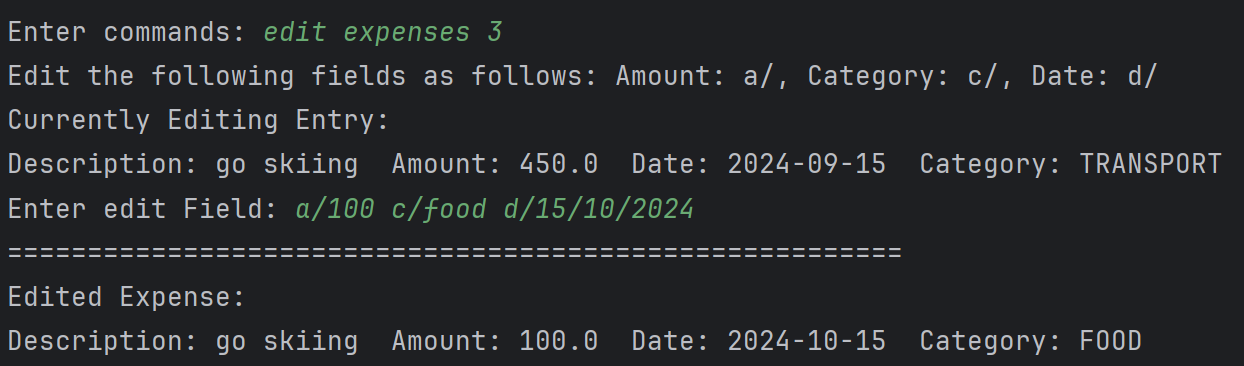
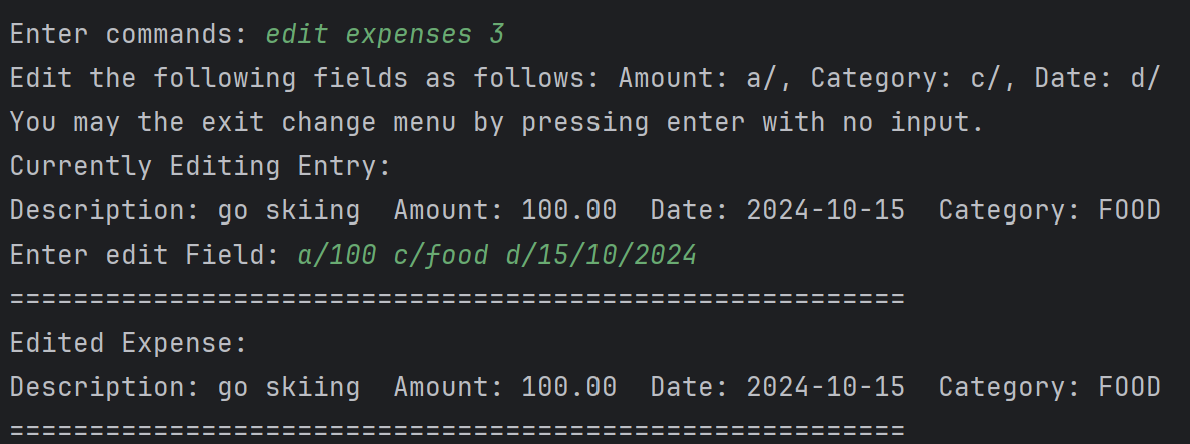
Fix Text and JUnit test case values

diff --git a/src/test/java/seedu/budgetbuddy/transaction/expense/ExpenseManagerTest.java b/src/test/java/seedu/budgetbuddy/transaction/expense/ExpenseManagerTest.java
@@ -37,7 +37,7 @@ class ExpenseManagerTest {
             result += counter + ". " + expense.toString() + "\n";
             counter++;
         }
-        result += "Your total expenses for FOOD in February 2024 is $12.00";
+        result += "Your total expenses for FOOD in February 2024 are $12.00";
         return result;
     }
 
@@ -114,7 +114,7 @@ class ExpenseManagerTest {
         Category category = Category.FOOD;
         YearMonth yearMonth = YearMonth.of(2024, 2);
         assertEquals("1. Description: New Food  Amount: 12.00  Date: 2024-02-12  Category: FOOD\n" +
-                "Your total expenses for FOOD in February 2024 is $12.00",
+                "Your total expenses for FOOD in February 2024 are $12.00",
                 ExpenseManager.listExpensesWithCategoryAndDate(category, yearMonth));
     }
 
@@ -138,7 +138,7 @@ class ExpenseManagerTest {
         initializeTestContent();
         Category category = Category.FOOD;
         assertEquals("1. Description: New Food  Amount: 12.00  Date: 2024-02-12  Category: FOOD\n" +
-                        "Your expenses for FOOD is $12.00",
+                        "Your expenses for FOOD are $12.00",
                 ExpenseManager.listExpensesWithCategory(category));
     }
 
@@ -154,7 +154,7 @@ class ExpenseManagerTest {
         initializeTestContent();
         YearMonth yearMonth = YearMonth.of(2024, 2);
         assertEquals("1. Description: New Food  Amount: 12.00  Date: 2024-02-12  Category: FOOD\n" +
-                "Your expenses for February 2024 is $12.00",
+                "Your expenses for February 2024 are $12.00",
                 ExpenseManager.listExpensesWithDate(yearMonth));
     }
 

diff --git a/src/main/java/seedu/budgetbuddy/Ui.java b/src/main/java/seedu/budgetbuddy/Ui.java
@@ -135,7 +135,7 @@ public class Ui {
                 "9. List remaining budgets.\n" +
                 "Example:\nlist remaining budget\n" +
                 "10. Edit expense fields (with Category, Amount or Date). Note: Provide at least one of the 3 fields" +
-                "in the second line of input. Refer to example below.\n" +
+                " in the second line of input. Refer to example below.\n" +
                 "Example:\nedit expenses 3\n" +
                 "a/1000 d/12/10/2024 c/food\n" +
                 "11. Edit income fields (with Amount or Date). Note: Provide at least one of the 2 fields in the" +

diff --git a/src/main/java/seedu/budgetbuddy/commands/expense/EditExpenseCommand.java b/src/main/java/seedu/budgetbuddy/commands/expense/EditExpenseCommand.java
@@ -91,6 +91,7 @@ public class EditExpenseCommand extends Command {
      */
     public String getEditFields() {
         Ui.showMessage("Edit the following fields as follows: Amount: a/, Category: c/, Date: d/\n" +
+                "You may the exit change menu by pressing enter with no input.\n" +
                 "Currently Editing Entry:\n" +
                 expense.toString());
         String editFields = Ui.getUserEditFields();

diff --git a/src/main/java/seedu/budgetbuddy/commands/income/EditIncomeCommand.java b/src/main/java/seedu/budgetbuddy/commands/income/EditIncomeCommand.java
@@ -80,6 +80,7 @@ public class EditIncomeCommand extends Command {
      */
     public String getEditFields() {
         Ui.showMessage("Edit the following fields as follows: Amount: a/, Date: d/\n" +
+                "You may the exit change menu by pressing enter with no input.\n" +
                 "Currently Editing Entry:\n" +
                 income.toString());
         String editFields = Ui.getUserEditFields();
